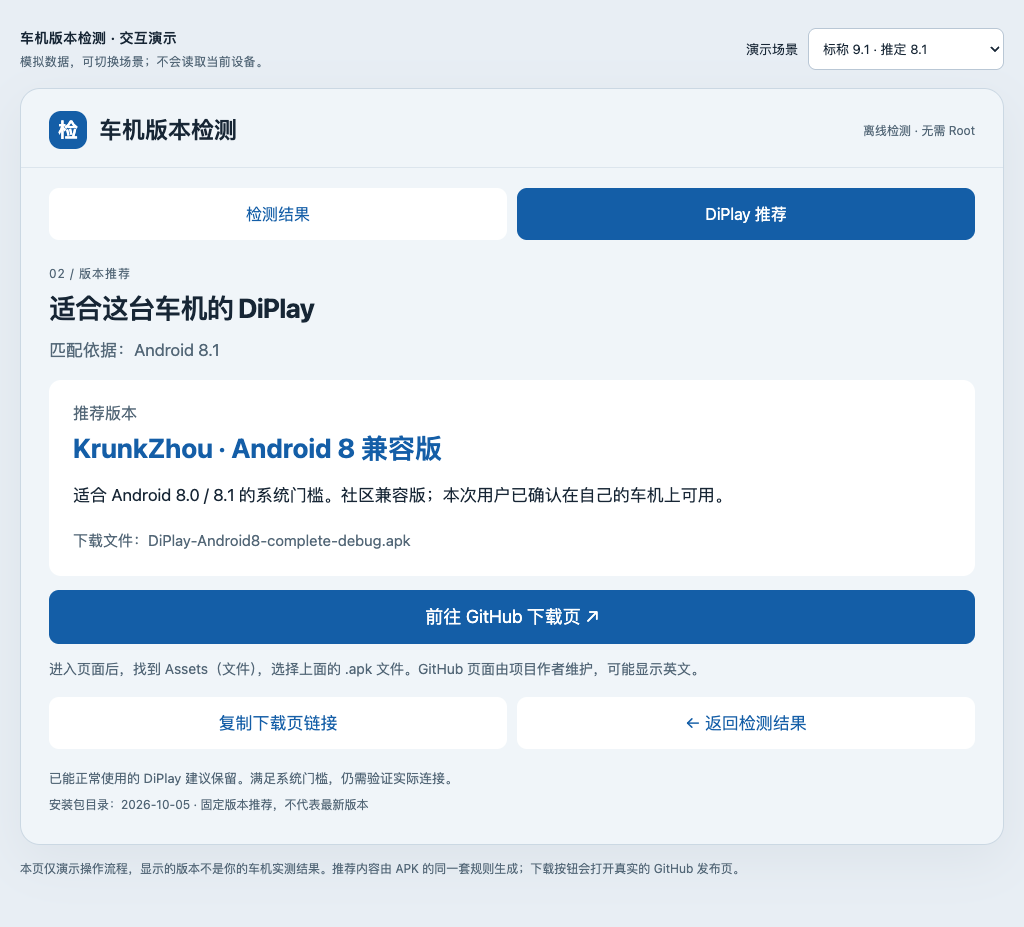
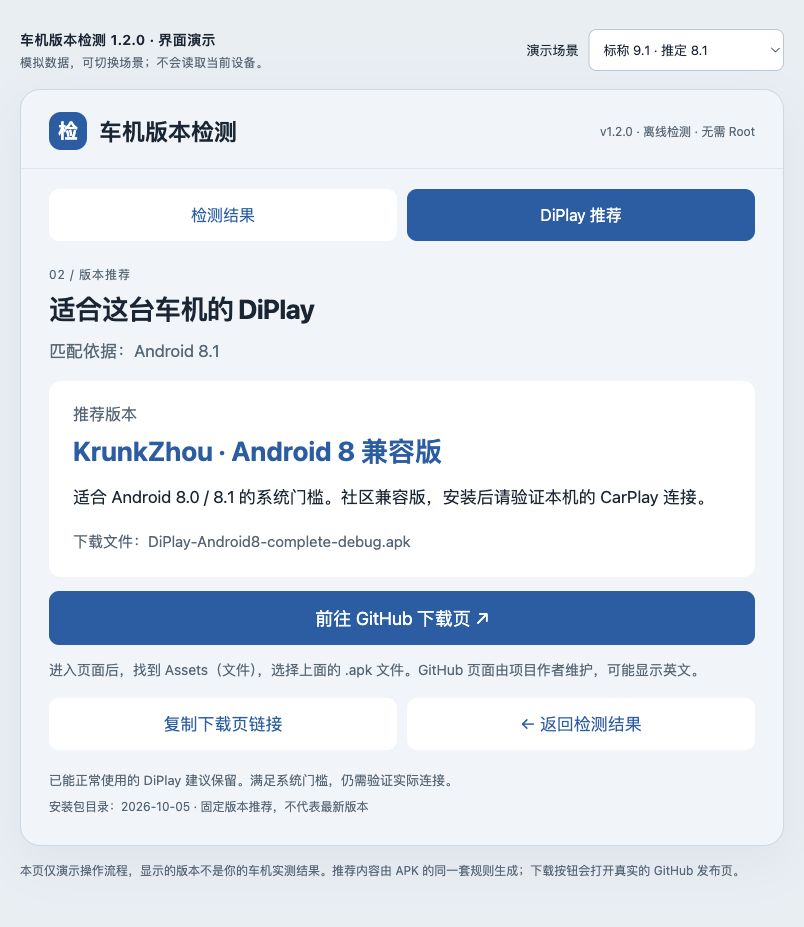
Document installation and verified native APK results

diff --git a/docs/demo.html b/docs/demo.html
@@ -2,14 +2,14 @@
 <html lang="zh-CN">
 <head>
 <meta charset="utf-8"><meta name="viewport" content="width=device-width,initial-scale=1">
-<title>车机版本检测 · 交互演示</title>
+<title>车机版本检测 1.2.0 · 界面演示</title>
 <style>
 :root{font-family:system-ui,-apple-system,"PingFang SC","Microsoft YaHei",sans-serif;color:#172635;background:#e8eef4;font-synthesis:none}*{box-sizing:border-box}body{margin:0;padding:28px 20px 48px}button,a,select{font:inherit}button,a{touch-action:manipulation}button{cursor:pointer}button:focus-visible,a:focus-visible,select:focus-visible{outline:3px solid #e49d34;outline-offset:4px}[hidden]{display:none!important}.demo-bar{max-width:1024px;margin:0 auto 18px;display:flex;align-items:center;justify-content:space-between;gap:18px;flex-wrap:wrap}.demo-label{font-size:14px;font-weight:650;letter-spacing:.03em}.demo-label small{display:block;font-size:12px;font-weight:400;color:#536777;margin-top:5px}.scenario{display:flex;align-items:center;gap:10px;font-size:13px}.scenario select{max-width:100%;min-height:42px;border:1px solid #b9c7d5;background:white;border-radius:8px;padding:8px 30px 8px 10px;color:#172635}.app{max-width:1024px;margin:auto;background:#f0f5f9;border:1px solid #cbd8e3;border-radius:20px;overflow:hidden;box-shadow:0 16px 50px #253b5010}.app-header{padding:22px 28px 18px;display:flex;align-items:center;justify-content:space-between;gap:16px;border-bottom:1px solid #dce5ed}.brand{display:flex;gap:12px;align-items:center;font-size:23px;font-weight:700}.brand-mark{display:grid;place-items:center;background:#145ea7;color:white;width:38px;height:38px;border-radius:12px;font-size:20px}.local{font-size:12px;color:#536777}.inner{padding:20px 28px 28px}nav{display:grid;grid-template-columns:1fr 1fr;gap:10px;margin-bottom:25px}button{border:0;border-radius:10px;min-height:52px;background:white;color:#145ea7;padding:12px 16px;font-size:17px}nav button{font-size:16px}nav button[aria-current="page"],.primary{background:#145ea7;color:white}.section-label{font-size:12px;letter-spacing:.08em;color:#536777;margin:0 0 8px}h1{font-size:27px;line-height:1.35;margin:0 0 20px;letter-spacing:-.025em}h2{font-size:27px;line-height:1.4;margin:6px 0 12px;overflow-wrap:anywhere}.versions{display:grid;grid-template-columns:1fr 1fr;gap:12px}.version-card{border-radius:12px;background:white;padding:22px 24px}.version-card.inferred{background:#deecfa}.label{font-size:16px;color:#536777}.inferred .label,.inferred .version{color:#145ea7}.version{font-size:36px;line-height:1.3;font-weight:700;letter-spacing:-.04em;margin:12px 0}.caption{font-size:14px;color:#536777;line-height:1.7}.status{font-size:17px;color:#146e4c;margin:18px 0 7px;line-height:1.6}.status.warn{color:#995611}.limitation{font-size:13px;line-height:1.7;color:#536777;margin:0 0 18px}.device{font-size:13px;color:#536777;margin:0 0 16px}.actions{display:grid;grid-template-columns:1fr 1fr;gap:10px}.actions .primary{grid-column:1/-1}.actions .full{grid-column:1/-1}.recommend-context{color:#536777;font-size:17px;margin:-8px 0 18px}.recommend-card{border-radius:12px;padding:22px 24px;background:white;margin-bottom:14px}.recommend-card h2{color:#145ea7}.reason{font-size:17px;line-height:1.8;margin:0 0 16px}.file{font-size:15px;line-height:1.8;overflow-wrap:anywhere;margin:0;color:#536777}.file strong{color:#172635;font-weight:550}.download{display:flex;align-items:center;justify-content:center;min-height:54px;padding:13px 18px;border-radius:10px;text-decoration:none;font-size:18px}.download:hover,.primary:hover{background:#104f8d}.helper{font-size:14px;line-height:1.8;color:#536777;margin:12px 0 16px}.secondary-actions{display:grid;grid-template-columns:1fr 1fr;gap:10px}.footnote{font-size:13px;line-height:1.8;color:#536777;margin:18px 0 0}.footnote small{display:block;font-size:12px;margin-top:4px}.notice{margin:12px 0 0;color:#145ea7;overflow-wrap:anywhere;font-size:14px;line-height:1.7}.demo-note{max-width:1024px;margin:14px auto 0;color:#536777;font-size:12px;line-height:1.7}dialog{max-width:min(600px,calc(100% - 32px));border:0;border-radius:16px;padding:25px;background:white;color:#172635}dialog::backdrop{background:#13233477}dialog pre{white-space:pre-wrap;overflow-wrap:anywhere;font:14px/1.8 system-ui;margin:0 0 18px}dialog button{background:#deecfa;width:100%}p{overflow-wrap:anywhere}@media(max-width:600px){body{padding:16px 10px 28px}.demo-bar{gap:12px}.scenario{width:100%;flex-wrap:wrap}.scenario select{flex:1;min-width:0}.app{border-radius:14px}.app-header{padding:18px 16px}.brand{font-size:19px}.local{display:none}.inner{padding:16px}.versions{grid-template-columns:1fr}.version-card{padding:18px}.version{font-size:32px;margin:8px 0}h1{font-size:24px}.actions,.secondary-actions{grid-template-columns:1fr}.recommend-card{padding:18px}h2{font-size:23px}nav{margin-bottom:20px}nav button{padding:10px 8px}.caption{font-size:13px}}
 </style>
 </head>
 <body>
-<div class="demo-bar"><div class="demo-label">车机版本检测 · 交互演示<small>模拟数据，可切换场景；不会读取当前设备。</small></div><label class="scenario" for="scenario">演示场景<select id="scenario"></select></label></div>
-<main class="app"><header class="app-header"><div class="brand"><span class="brand-mark" aria-hidden="true">检</span>车机版本检测</div><span class="local">离线检测 · 无需 Root</span></header><div class="inner">
+<div class="demo-bar"><div class="demo-label">车机版本检测 1.2.0 · 界面演示<small>模拟数据，可切换场景；不会读取当前设备。</small></div><label class="scenario" for="scenario">演示场景<select id="scenario"></select></label></div>
+<main class="app"><header class="app-header"><div class="brand"><span class="brand-mark" aria-hidden="true">检</span>车机版本检测</div><span class="local">v1.2.0 · 离线检测 · 无需 Root</span></header><div class="inner">
 <nav aria-label="页面导航"><button id="result-tab" type="button" aria-current="page">检测结果</button><button id="recommend-tab" type="button">DiPlay 推荐</button></nav>
 <section id="result-page" aria-labelledby="result-heading"><p class="section-label">01 / 检测结果</p><h1 id="result-heading">看看车机的实际版本</h1><div class="versions"><div class="version-card"><div class="label">标称版本</div><div class="version" id="declared"></div><div class="caption">车机系统显示的版本</div></div><div class="version-card inferred"><div class="label">真实版本（检测推定）</div><div class="version" id="inferred"></div><div class="caption" id="api-caption"></div></div></div><p class="status" id="status" role="status"></p><p class="limitation">推定结果不是绝对证明；部分改装固件可能修改系统信息。</p><p class="device" id="device"></p><div class="actions"><button type="button" class="primary" id="next">查看适配的 DiPlay →</button><button type="button" id="details">查看检测依据</button><button type="button" id="rescan">重新检测（演示）</button></div></section>
 <section id="recommend-page" aria-labelledby="recommend-heading" hidden><p class="section-label">02 / 版本推荐</p><h1 id="recommend-heading">适合这台车机的 DiPlay</h1><p class="recommend-context" id="context"></p><div class="recommend-card"><div class="label" id="recommend-label"></div><h2 id="recommend-title"></h2><p class="reason" id="reason"></p><p class="file" id="filename"></p></div><a class="download primary" id="download" target="_blank" rel="noopener noreferrer">前往 GitHub 下载页 ↗</a><button type="button" class="primary" id="blocked-details" hidden>查看无法推荐的原因</button><p class="helper" id="download-help">进入页面后，找到 Assets（文件），选择上面的 .apk 文件。GitHub 页面由项目作者维护，可能显示英文。</p><div class="secondary-actions"><button type="button" id="copy">复制下载页链接</button><button type="button" id="back">← 返回检测结果</button></div><p class="notice" id="notice" role="status"></p><p class="footnote">已能正常使用的 DiPlay 建议保留。满足系统门槛，仍需验证实际连接。<small>安装包目录：2026-10-05 · 固定版本推荐，不代表最新版本</small></p></section>
@@ -17,7 +17,7 @@
 <p class="demo-note">本页仅演示操作流程，显示的版本不是你的车机实测结果。推荐内容由 APK 的同一套规则生成；下载按钮会打开真实的 GitHub 发布页。</p>
 <dialog id="evidence"><h2>检测依据 · 模拟数据</h2><pre id="evidence-text"></pre><button id="close-evidence" type="button">关闭</button></dialog>
 <script>
-const fixtures=[{"label":"标称 9.1 · 推定 8.1","release":"9.1","api":27,"conflict":false,"abiSupported":true,"mismatch":true,"inferred":"Android 8.1","title":"KrunkZhou · Android 8 兼容版","reason":"适合 Android 8.0 / 8.1 的系统门槛。社区兼容版；本次用户已确认在自己的车机上可用。","apk":"DiPlay-Android8-complete-debug.apk","source":"https://github.com/KrunkZhou/DiPlay-Android8.0/releases/tag/v0.2.6"},{"label":"Android 9 · 信息一致","release":"9","api":28,"conflict":false,"abiSupported":true,"mismatch":false,"inferred":"Android 9","title":"官方 DiPlay · 0.2.12 预览版","reason":"适合 Android 9 及以上的系统门槛。此版本为公开预览版，实际连接需验证。","apk":"DiPlay-0.2.12.apk","source":"https://github.com/shihabal3amri/DiPlay/releases/tag/v0.2.12"},{"label":"Android 6 · 老车机","release":"6.0","api":23,"conflict":false,"abiSupported":true,"mismatch":false,"inferred":"Android 6.0","title":"Legacy Android · 4.4 兼容版","reason":"适合 Android 4.4 至 7.1 的系统门槛。社区试用包，实际连接仍需验证。","apk":"DiPlay-Legacy-Android-v0.2.7.apk","source":"https://github.com/programmerguohuajing/DiPlay-Legacy-Android/releases/tag/v0.2.7"},{"label":"接口冲突 · 无法确定","release":"9.1","api":28,"conflict":true,"abiSupported":true,"mismatch":false,"inferred":"无法确定","title":"暂无法可靠推荐","reason":"系统 API 与接口证据冲突，请查看检测依据。","apk":"","source":""},{"label":"Android 4.0 · 无适配包","release":"4.0","api":14,"conflict":false,"abiSupported":true,"mismatch":false,"inferred":"Android 4.0","title":"没有已核验的适配包","reason":"当前目录最低要求 API 19（Android 4.4）。","apk":"","source":""},{"label":"架构未知 · 暂停推荐","release":"8.1","api":27,"conflict":false,"abiSupported":false,"mismatch":false,"inferred":"Android 8.1","title":"暂无法可靠推荐","reason":"未确认 CPU 架构与目录中的安装包匹配。","apk":"","source":""},{"label":"未知 API · 无法确定","release":"99","api":99,"conflict":false,"abiSupported":true,"mismatch":false,"inferred":"无法确定","title":"暂无法可靠推荐","reason":"系统 API 尚未收录，无法推定版本。","apk":"","source":""}]
+const fixtures=[{"label":"标称 9.1 · 推定 8.1","release":"9.1","api":27,"conflict":false,"abiSupported":true,"mismatch":true,"inferred":"Android 8.1","title":"KrunkZhou · Android 8 兼容版","reason":"适合 Android 8.0 / 8.1 的系统门槛。社区兼容版，安装后请验证本机的 CarPlay 连接。","apk":"DiPlay-Android8-complete-debug.apk","source":"https://github.com/KrunkZhou/DiPlay-Android8.0/releases/tag/v0.2.6"},{"label":"Android 9 · 信息一致","release":"9","api":28,"conflict":false,"abiSupported":true,"mismatch":false,"inferred":"Android 9","title":"官方 DiPlay · 0.2.12 预览版","reason":"适合 Android 9 及以上的系统门槛。此版本为公开预览版，实际连接需验证。","apk":"DiPlay-0.2.12.apk","source":"https://github.com/shihabal3amri/DiPlay/releases/tag/v0.2.12"},{"label":"Android 6 · 老车机","release":"6.0","api":23,"conflict":false,"abiSupported":true,"mismatch":false,"inferred":"Android 6.0","title":"Legacy Android · 4.4 兼容版","reason":"适合 Android 4.4 至 7.1 的系统门槛。社区试用包，实际连接仍需验证。","apk":"DiPlay-Legacy-Android-v0.2.7.apk","source":"https://github.com/programmerguohuajing/DiPlay-Legacy-Android/releases/tag/v0.2.7"},{"label":"接口冲突 · 无法确定","release":"9.1","api":28,"conflict":true,"abiSupported":true,"mismatch":true,"inferred":"无法确定","title":"暂无法可靠推荐","reason":"系统 API 与接口证据冲突，请查看检测依据。","apk":"","source":""},{"label":"Android 4.0 · 无适配包","release":"4.0","api":14,"conflict":false,"abiSupported":true,"mismatch":false,"inferred":"Android 4.0","title":"没有已核验的适配包","reason":"当前目录最低要求 API 19（Android 4.4）。","apk":"","source":""},{"label":"架构未知 · 暂停推荐","release":"8.1","api":27,"conflict":false,"abiSupported":false,"mismatch":false,"inferred":"Android 8.1","title":"暂无法可靠推荐","reason":"未确认 CPU 架构与目录中的安装包匹配。","apk":"","source":""},{"label":"未知 API · 无法确定","release":"99","api":99,"conflict":false,"abiSupported":true,"mismatch":false,"inferred":"无法确定","title":"暂无法可靠推荐","reason":"系统 API 尚未收录，无法推定版本。","apk":"","source":""}]
 ;
 const $=id=>document.getElementById(id);let current=fixtures[0];let active='result';
 fixtures.forEach((f,i)=>{const o=document.createElement('option');o.value=i;o.textContent=f.label;$('scenario').appendChild(o)});
